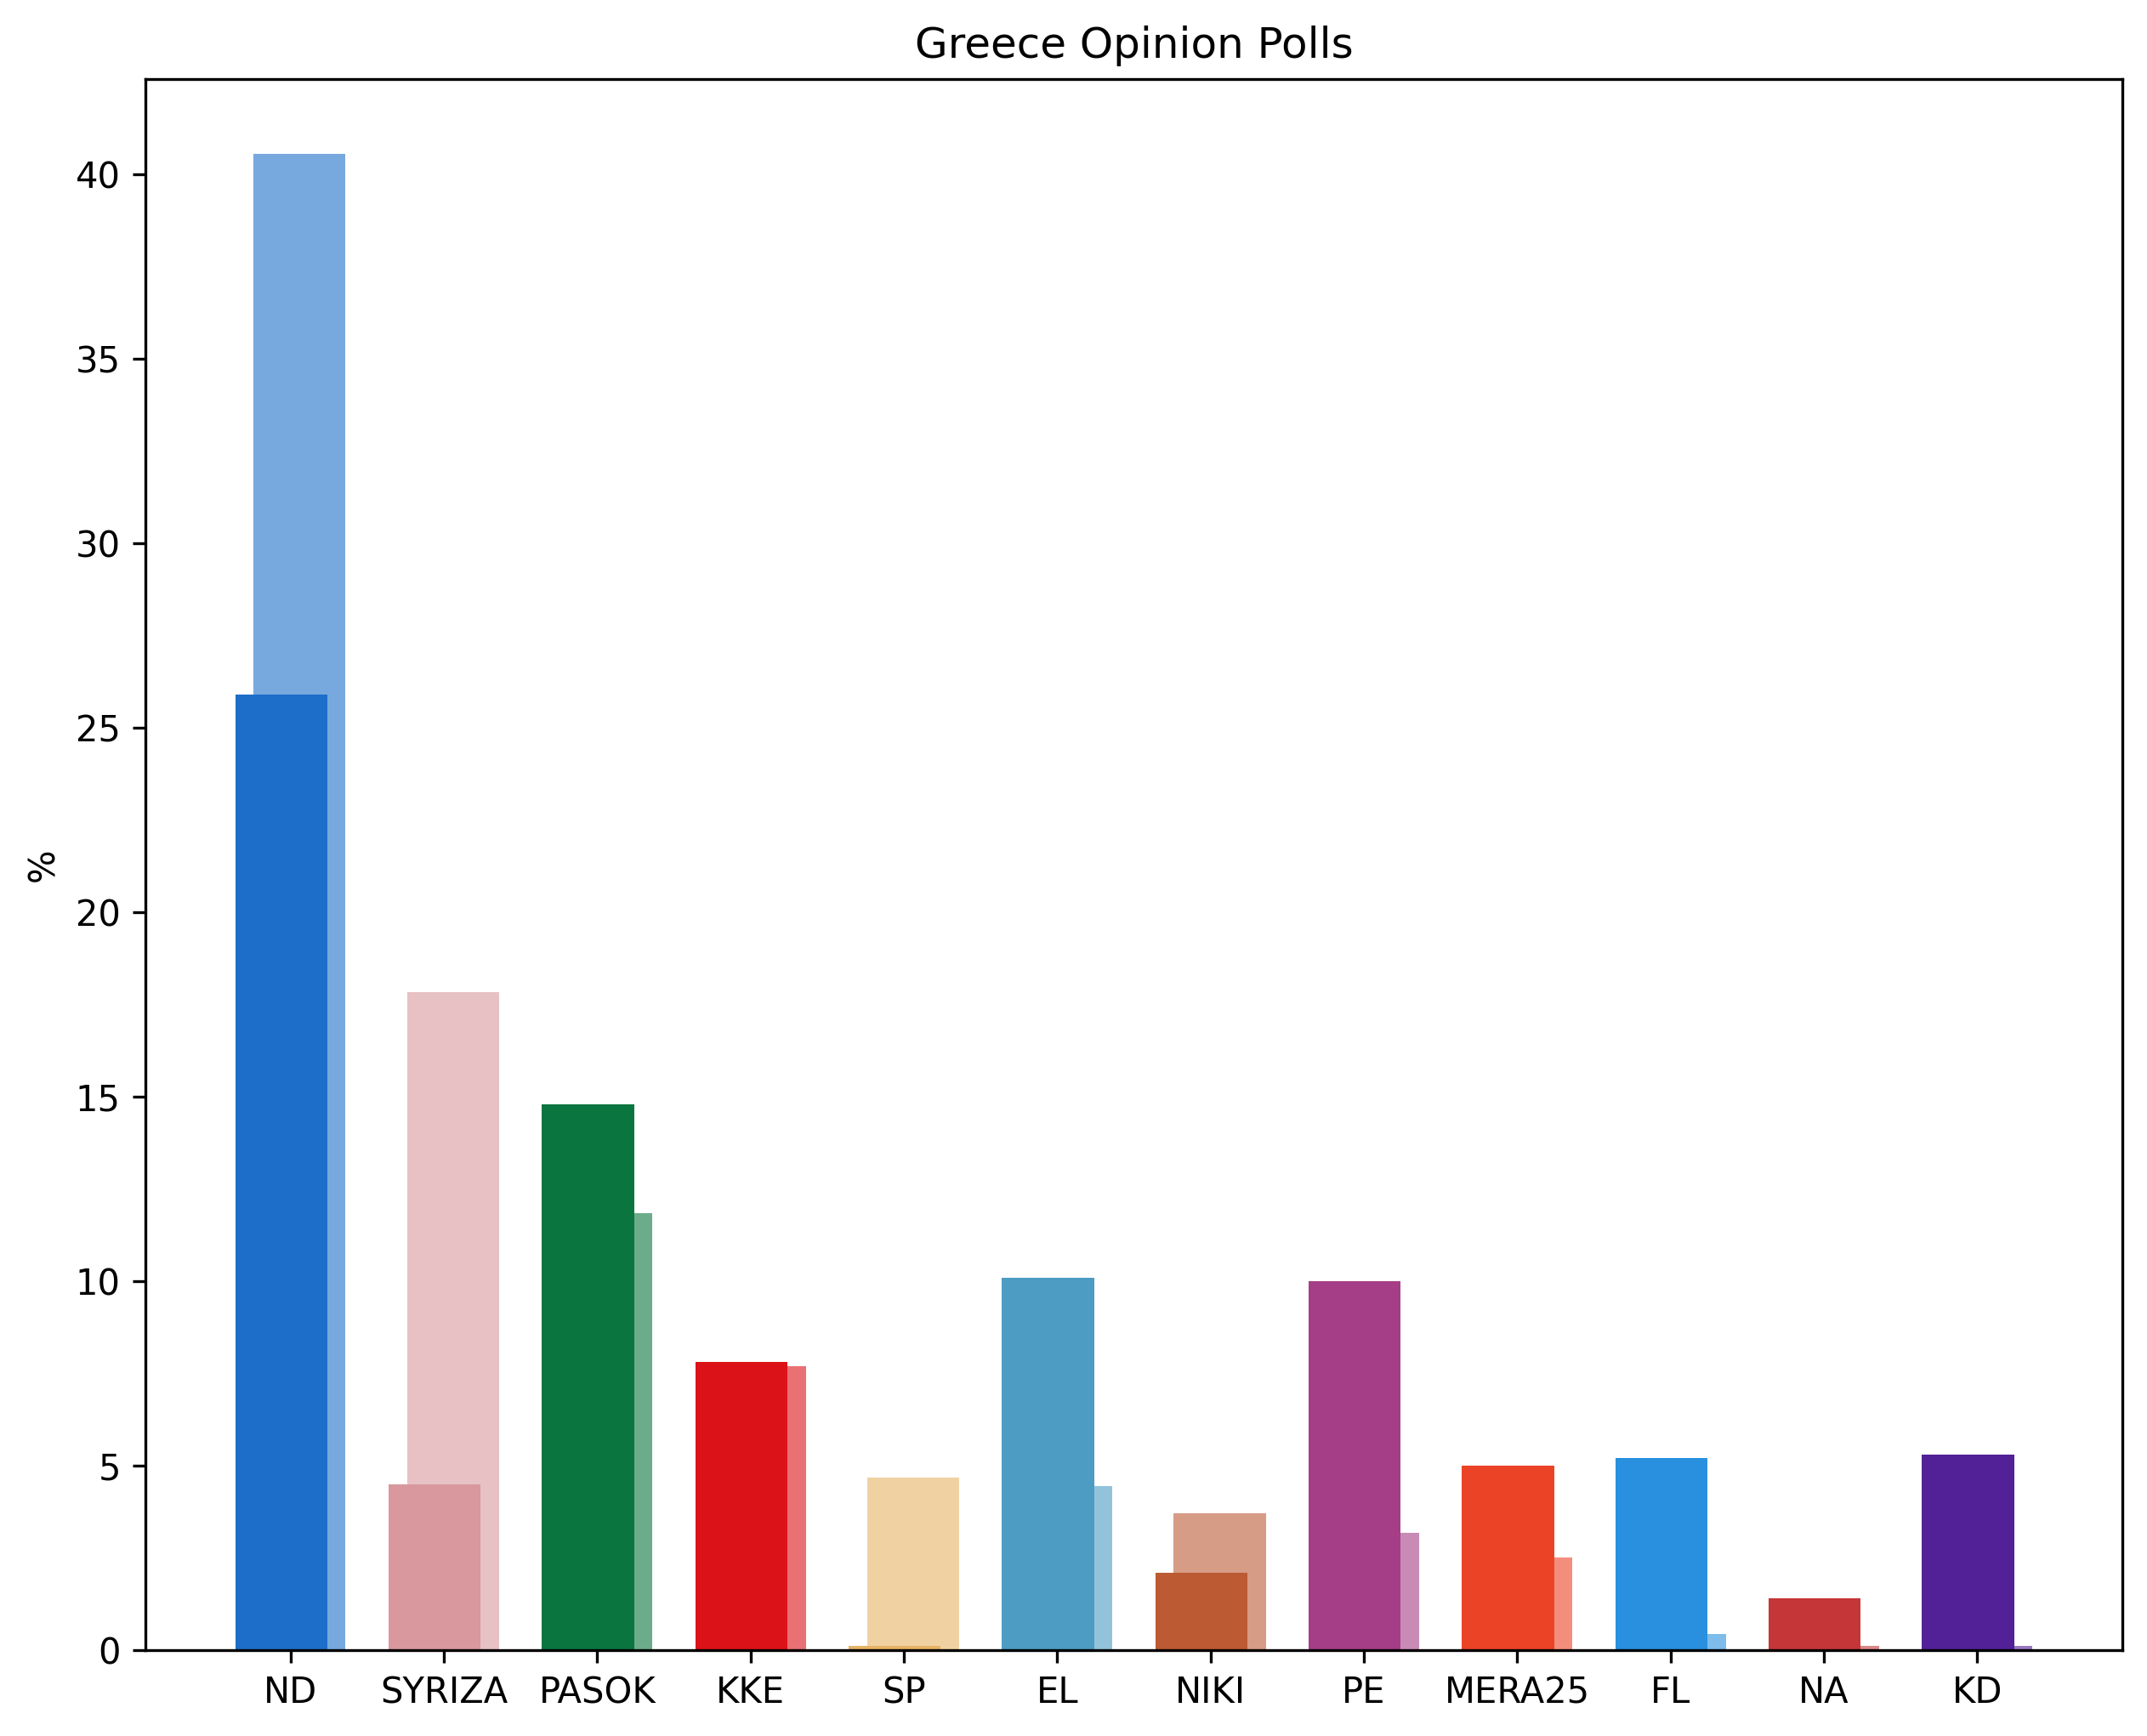
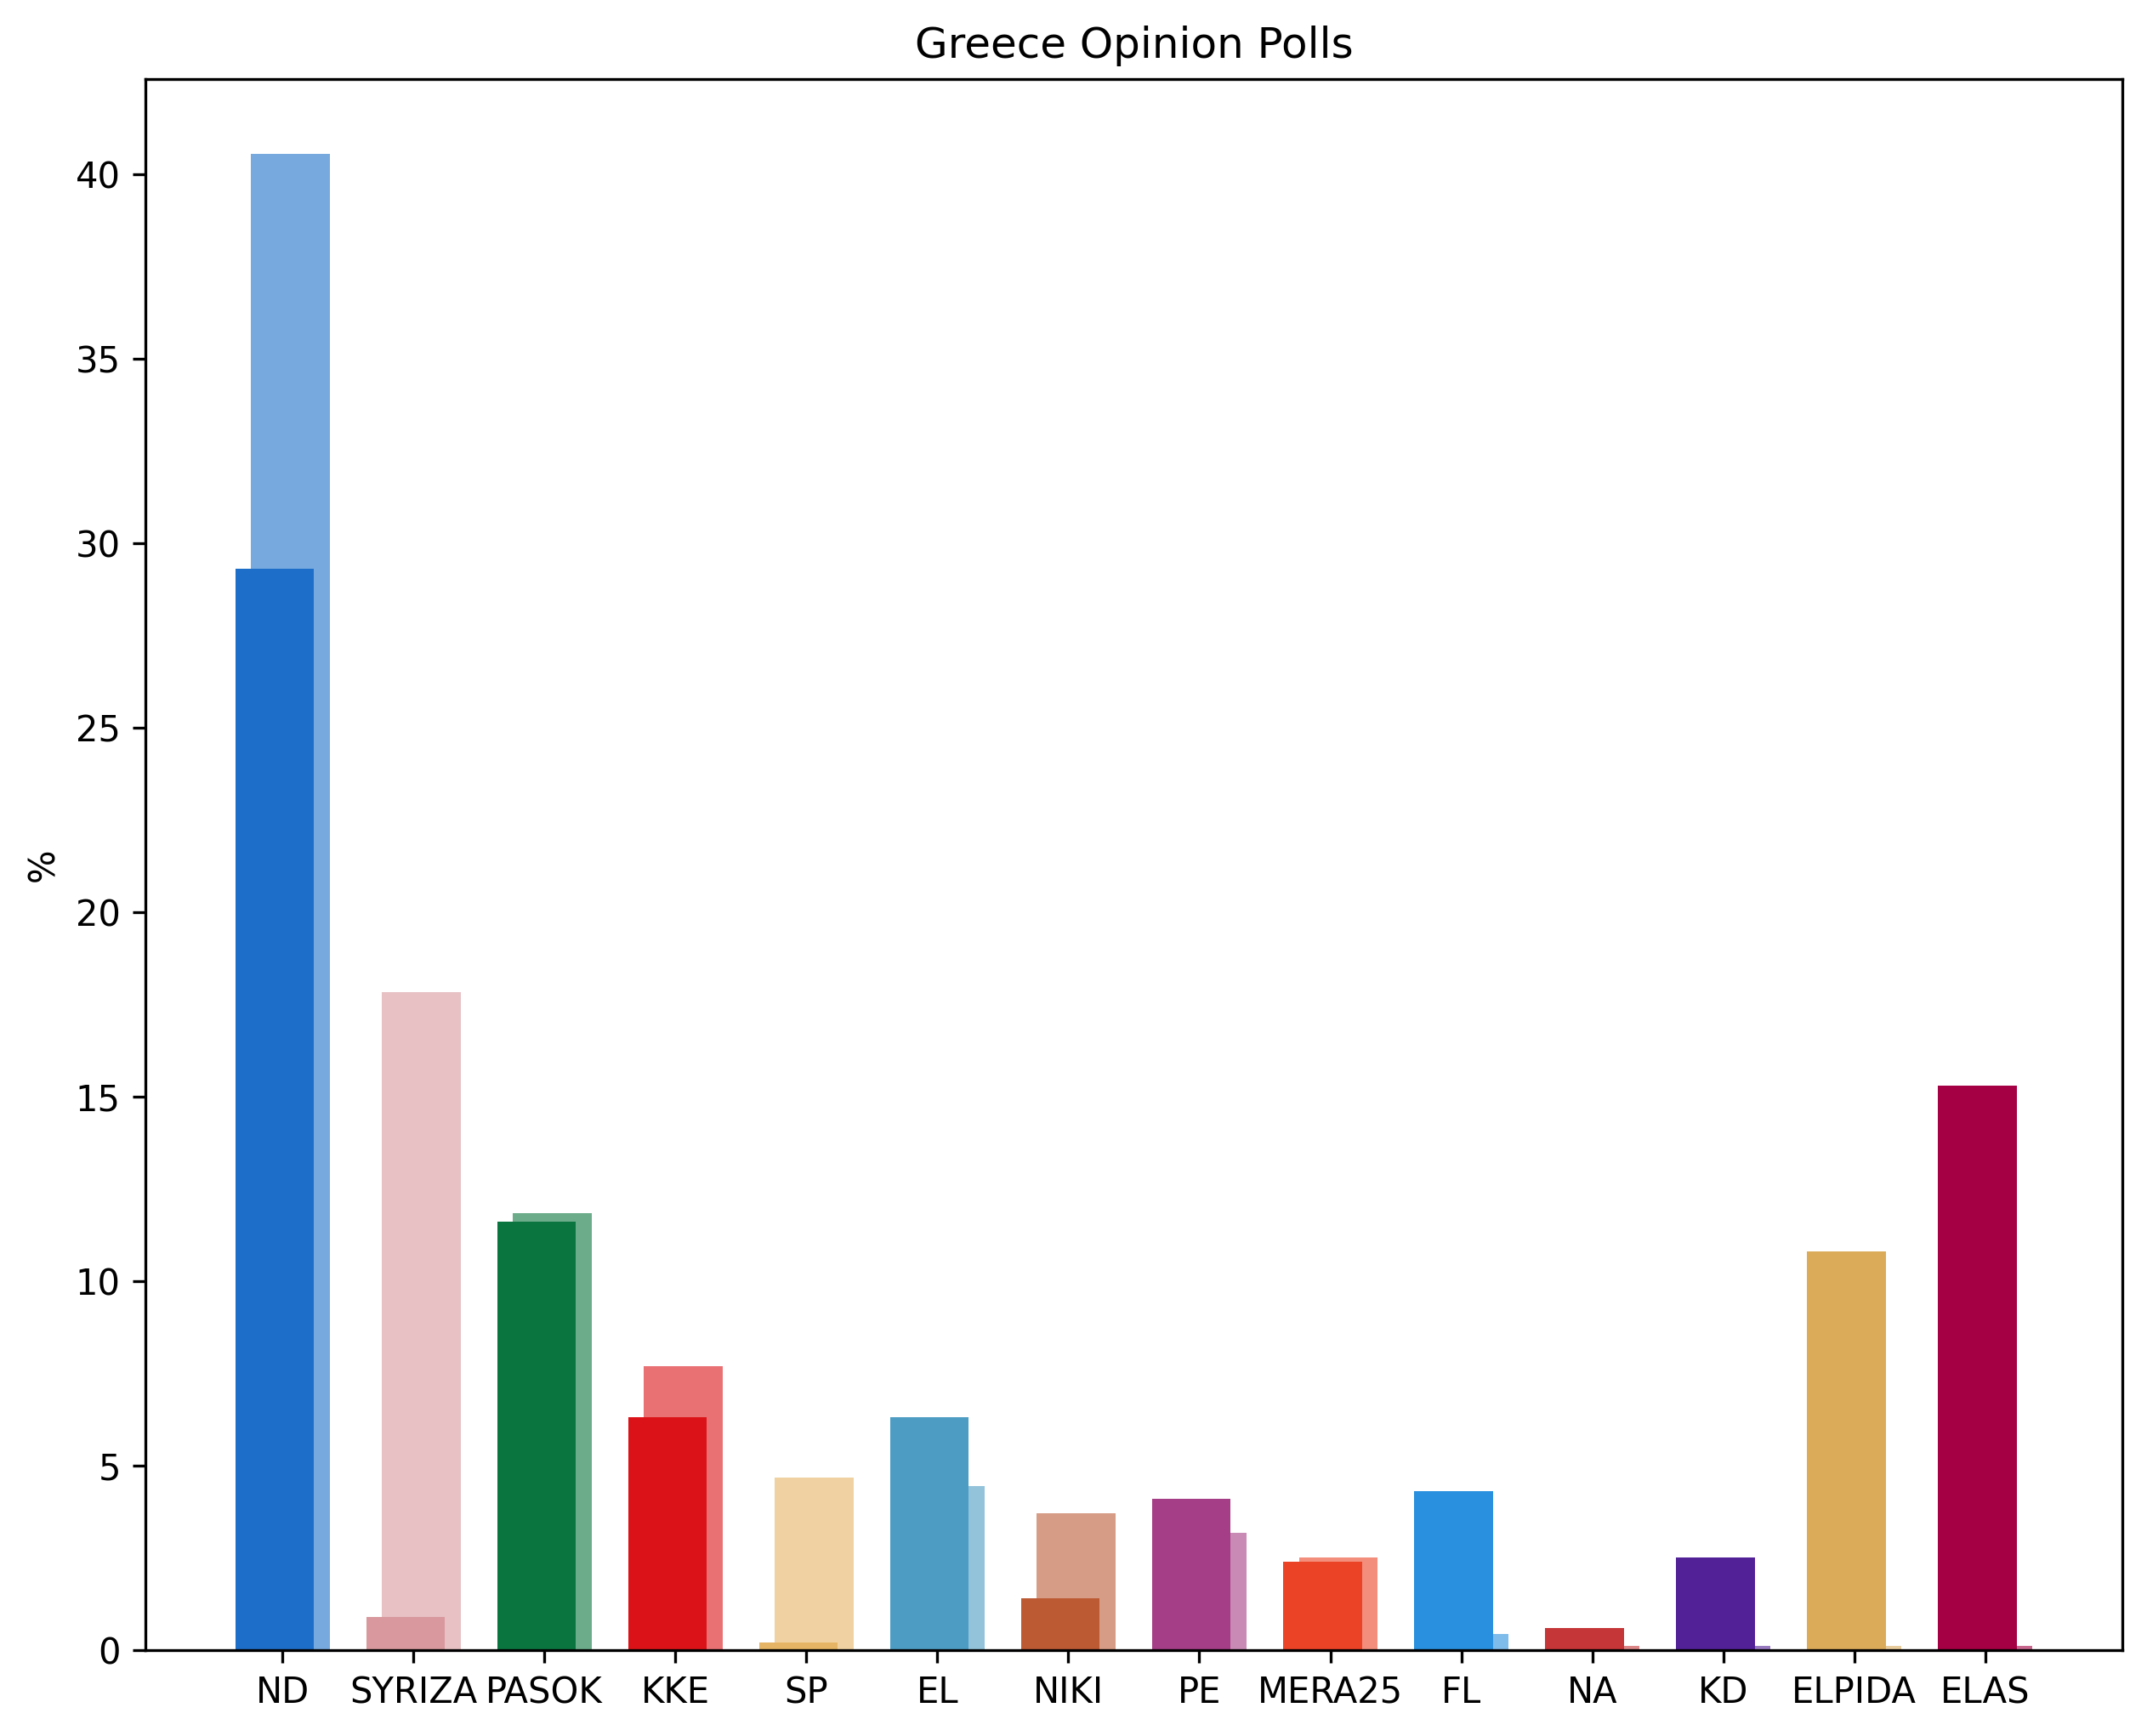
Merge pull request #9 from Petrosdevri/8-update-greek-polls
Updated Greek polls

Pull request: Updated Greek polls
Closes #8.

Changed region(s): [[0.0927, 0.0926, 0.9576, 0.9873]]

diff --git a/Europe/SouthEurope/Greece.py b/Europe/SouthEurope/Greece.py
@@ -1,19 +1,19 @@
 import matplotlib.pyplot as plt
 import numpy as np
 
-parties = ['ND', 'SYRIZA', 'PASOK', 'KKE', 'SP', 'EL', 'NIKI', 'PE', 'MERA25', 'FL', 'NA', 'KD']
-polling_2025 = [25.9, 4.5, 14.8, 7.8, 0.1, 10.1, 2.1, 10.0, 5.0, 5.2, 1.4, 5.3]
-election_2023 = [40.56, 17.83, 11.84, 7.69, 4.68, 4.44, 3.70, 3.17, 2.50, 0.43, 0.10, 0.10]
+parties = ['ND', 'SYRIZA', 'PASOK', 'KKE', 'SP', 'EL', 'NIKI', 'PE', 'MERA25', 'FL', 'NA', 'KD', 'ELPIDA', 'ELAS']
+polling_2026 = [29.3, 0.9, 11.6, 6.3, 0.2, 6.3, 1.4, 4.1, 2.4, 4.3, 0.6, 2.5, 10.8, 15.3]
+election_2023 = [40.56, 17.83, 11.84, 7.69, 4.68, 4.44, 3.70, 3.17, 2.50, 0.43, 0.10, 0.10, 0.10, 0.10]
 
-poll_colors = ['#1d6ec8', '#d8989d', '#0b753f', '#db1318', '#e6b465', '#4c9cc4', '#bc5a34', '#a53e86', '#eb4326', '#2890de', '#c53638', '#522197']
-election_colors = ['#77a8de', '#e7c1c4', '#6cac8b', '#e97174', '#f0d2a2', '#93c3db', '#d69c85', '#c98bb6', '#f38e7c', '#7ebceb', '#dc8687', '#9779c0']
+poll_colors = ['#1d6ec8', '#d8989d', '#0b753f', '#db1318', '#e6b465', '#4c9cc4', '#bc5a34', '#a53e86', '#eb4326', '#2890de', '#c53638', '#522197', '#dbab59', '#a40043']
+election_colors = ['#77a8de', '#e7c1c4', '#6cac8b', '#e97174', '#f0d2a2', '#93c3db', '#d69c85', '#c98bb6', '#f38e7c', '#7ebceb', '#dc8687', '#9779c0', '#e9cc9b', '#c8668e']
 
 x = np.arange(len(parties))
 width = 0.6
 
 fig, ax = plt.subplots(figsize=(10, 8))
 ax.bar(x + width/10, election_2023, width=width, color=election_colors, label='2023 Election')
-ax.bar(x - width/10, polling_2025, width=width, color=poll_colors, label='August 2025 Polling')
+ax.bar(x - width/10, polling_2026, width=width, color=poll_colors, label='May 2026 Polling')
 
 ax.set_ylabel('%')
 ax.set_xticks(x)